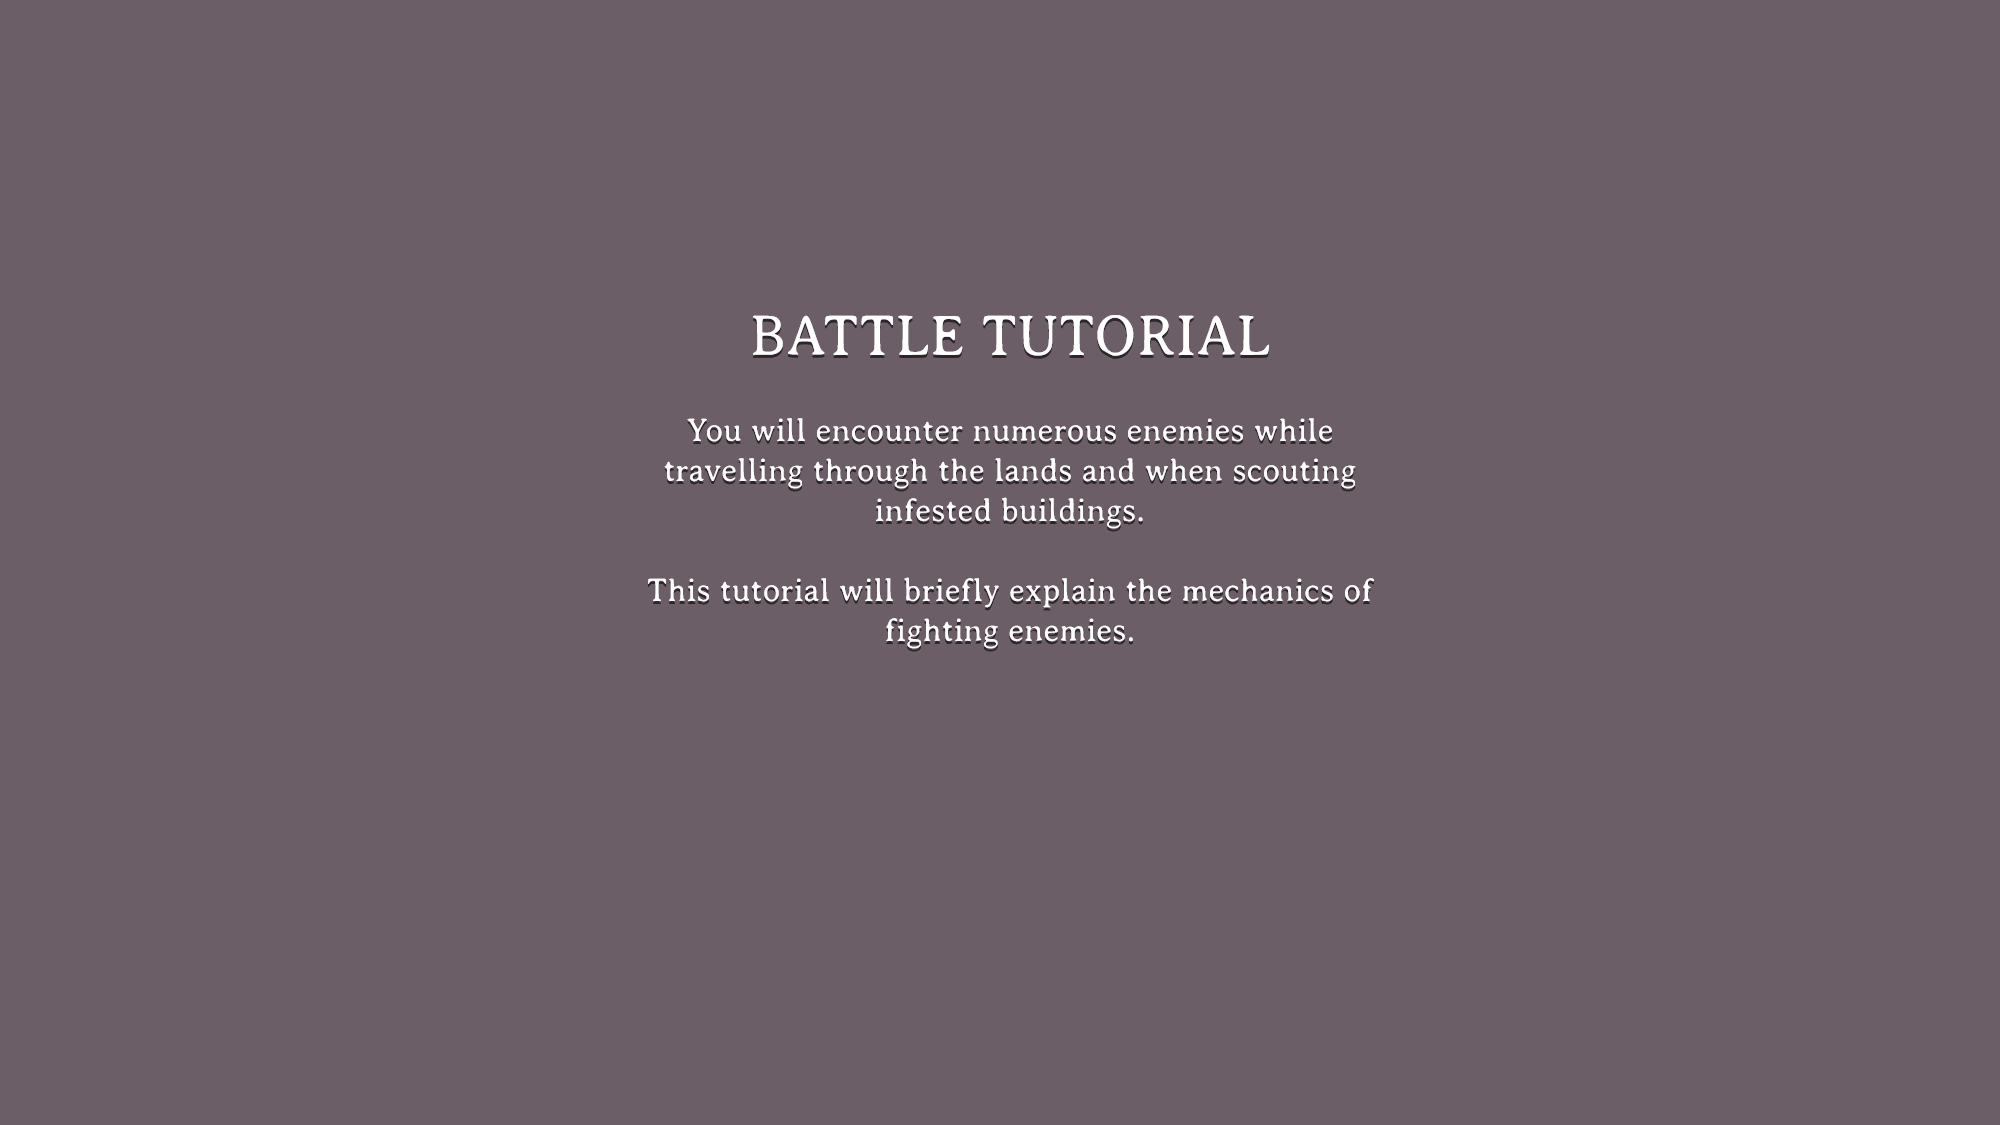
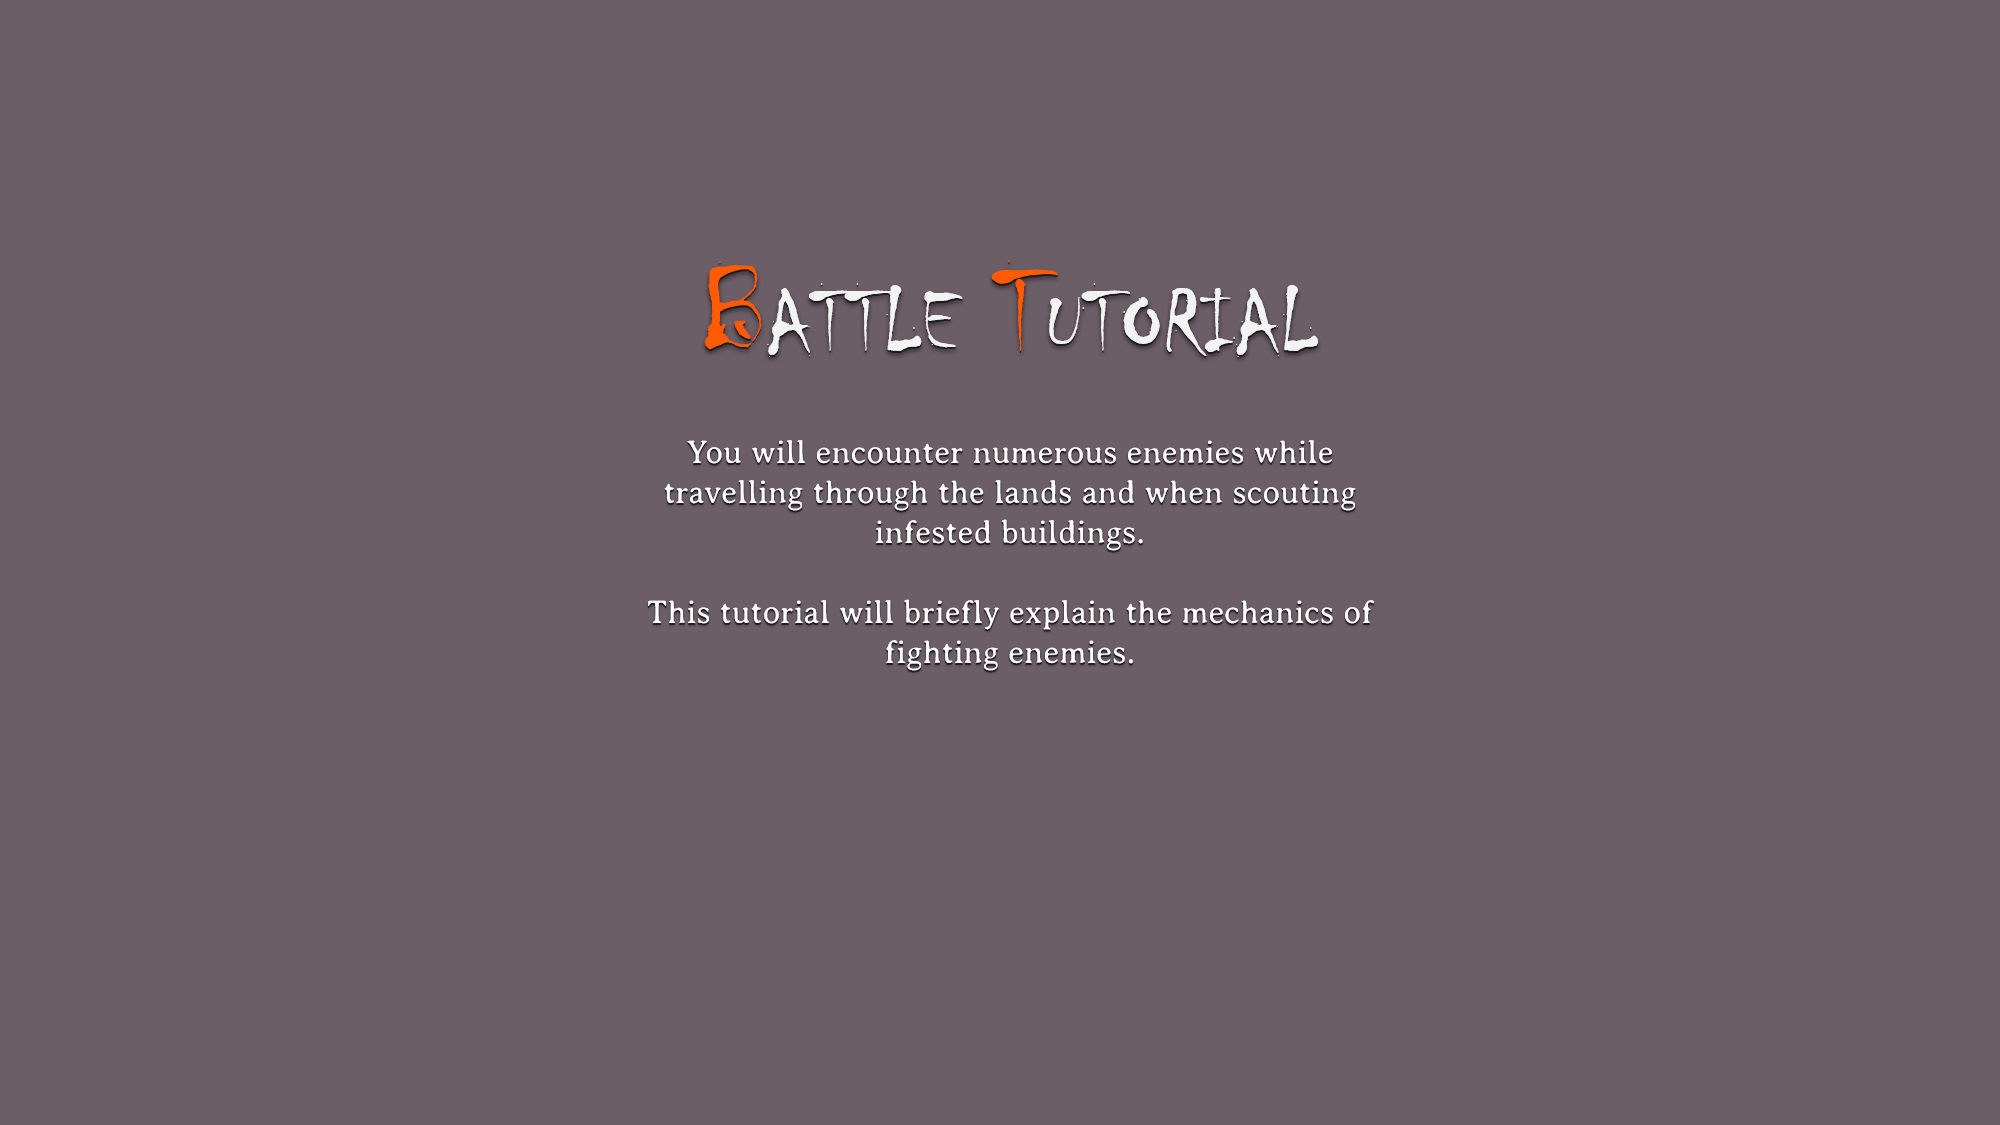
feat: update tutorial images for improved onboarding experience

Changed region(s): [[0.31, 0.3733, 0.682, 0.5911], [0.341, 0.2178, 0.651, 0.3422]]

diff --git a/js/preloading.js b/js/preloading.js
@@ -104,17 +104,20 @@ export default {
 
   preloadTutorial: function () {
     const loader = new ImagePreloader('./img/tutorial/');
-    loader.load(1, 'note-1.png');
-    loader.load(2, 'note-2.png');
-    loader.load(3, 'note-3.png');
-    loader.load(4, 'note-4.png');
-    loader.load(5, 'step-1.png');
-    loader.load(6, 'step-2.png');
-    loader.load(7, 'step-3.png');
-    loader.load(8, 'step-4.png');
-    loader.load(9, 'step-4a.png');
-    loader.load(10, 'step-5.png');
-    loader.load(11, 'general-notes.png');
-    loader.load(12, 'letter-blank.png');
+    loader.load(1, 'intro-step-1.png');
+    loader.load(2, 'intro-step-2.png');
+    loader.load(3, 'intro-step-3.png');
+    loader.load(4, 'note-1.png');
+    loader.load(5, 'note-2.png');
+    loader.load(6, 'note-3.png');
+    loader.load(7, 'note-4.png');
+    loader.load(8, 'step-1.png');
+    loader.load(9, 'step-2.png');
+    loader.load(10, 'step-3.png');
+    loader.load(11, 'step-4.png');
+    loader.load(12, 'step-4a.png');
+    loader.load(13, 'step-5.png');
+    loader.load(14, 'general-notes.png');
+    loader.load(15, 'letter-blank.png');
   },
 };
